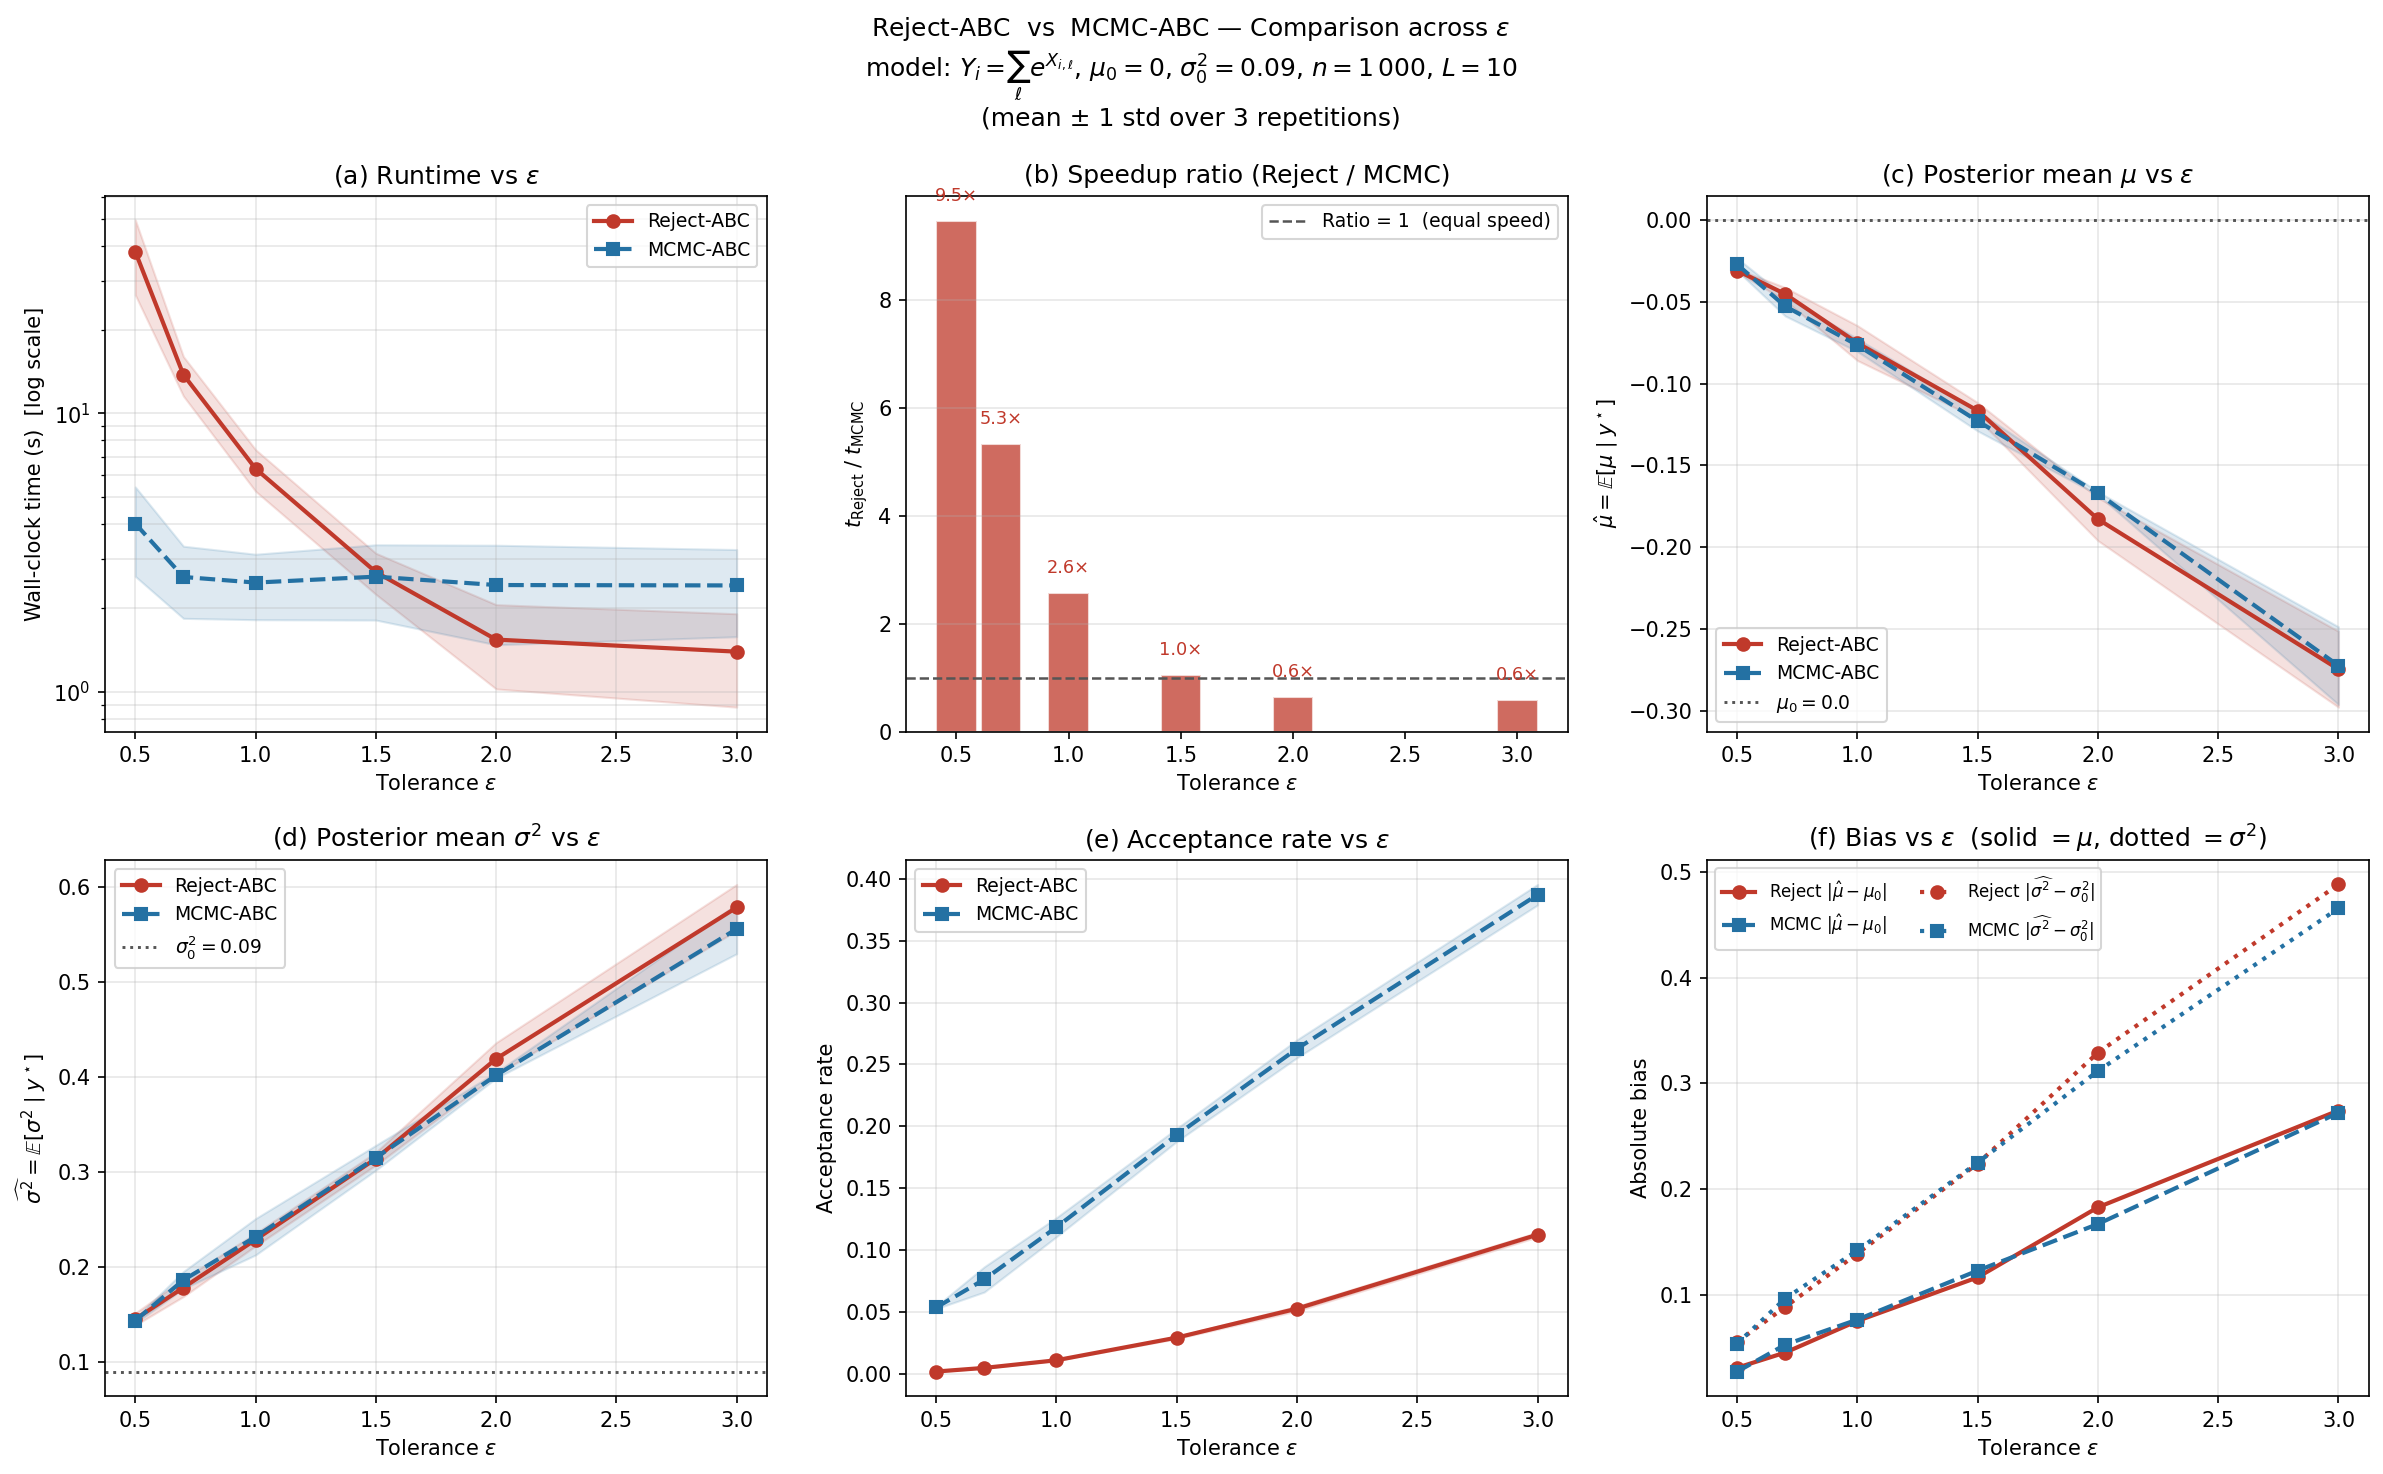
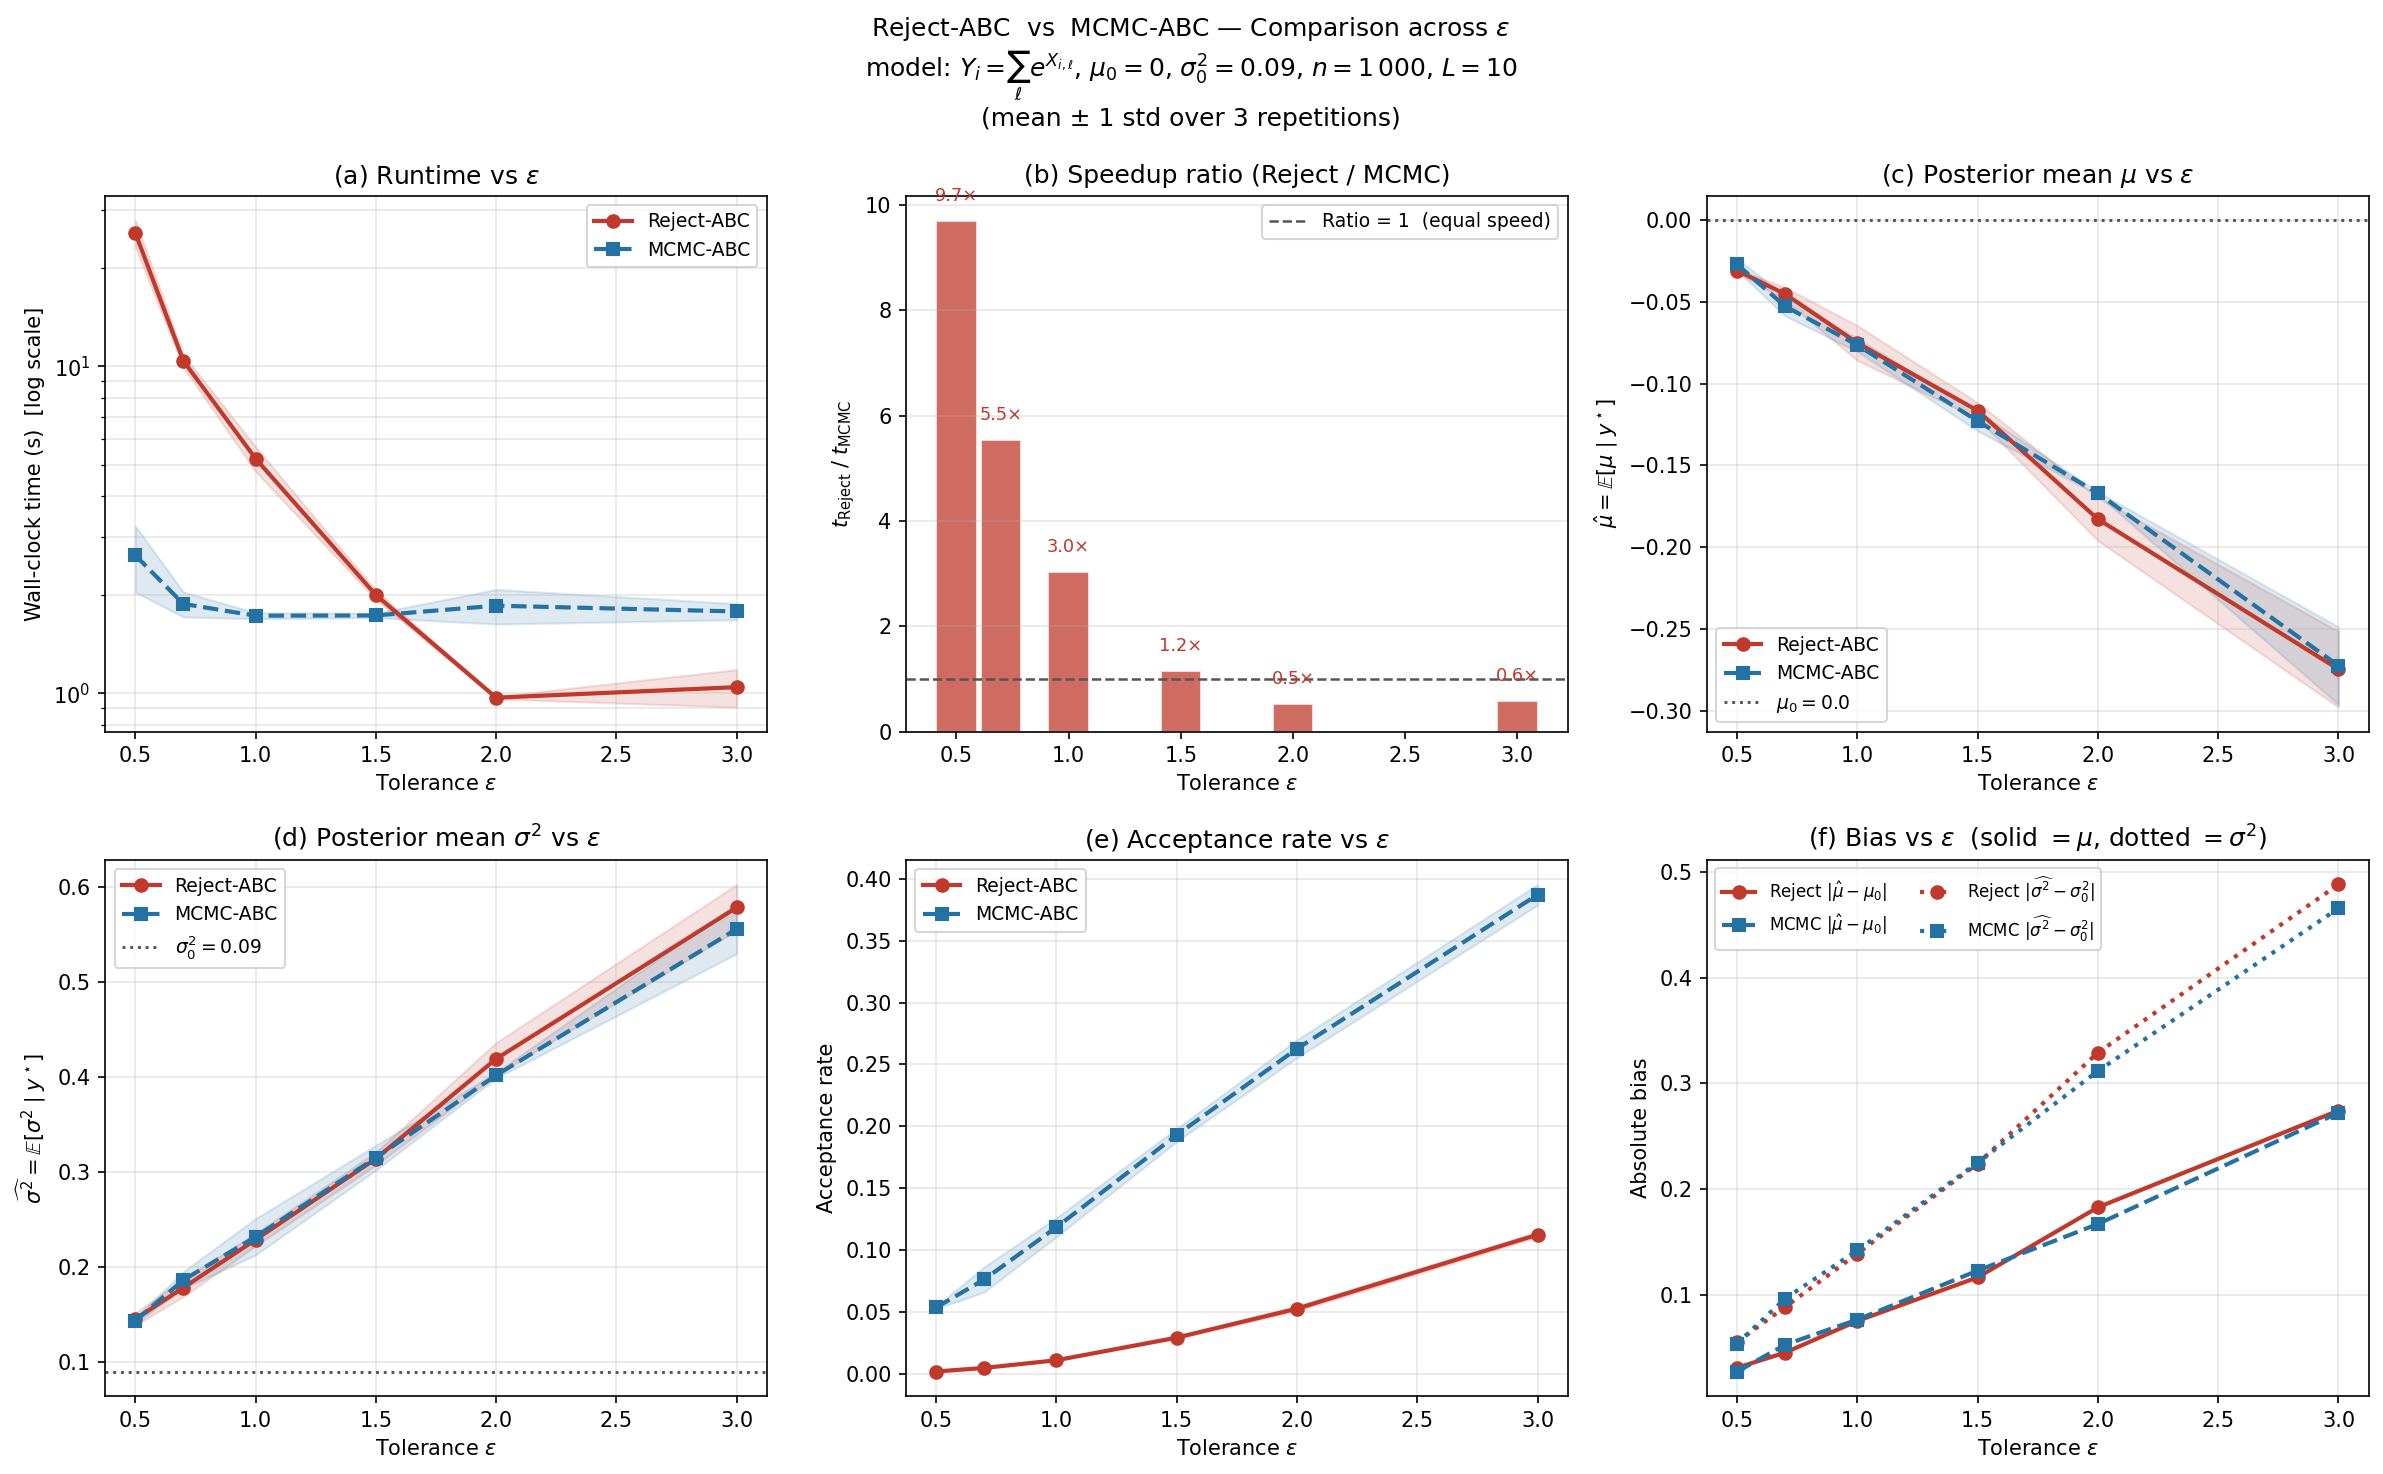
test

diff --git a/_make_diagram.py b/_make_diagram.py
@@ -1,0 +1,196 @@
+import matplotlib
+matplotlib.use("Agg")
+import matplotlib.pyplot as plt
+import matplotlib.patches as mpatches
+from matplotlib.patches import FancyBboxPatch
+import numpy as np
+
+fig = plt.figure(figsize=(18, 14))
+
+C_R  = "#C0392B"
+C_M  = "#2471A3"
+C_SH = "#BDC3C7"
+
+def box(ax, x, y, w, h, text, color, fontsize=9.5, text_color="white"):
+    bb = FancyBboxPatch((x - w/2, y - h/2), w, h,
+                        boxstyle="round,pad=0.12", linewidth=1.4,
+                        edgecolor="white", facecolor=color, zorder=3)
+    ax.add_patch(bb)
+    ax.text(x, y, text, ha="center", va="center",
+            fontsize=fontsize, color=text_color, zorder=4,
+            multialignment="center", fontweight="bold")
+
+def diamond(ax, x, y, w, h, text, color, fontsize=9):
+    pts = np.array([[x, y+h/2], [x+w/2, y], [x, y-h/2], [x-w/2, y]])
+    poly = plt.Polygon(pts, closed=True, facecolor=color,
+                       edgecolor="white", lw=1.4, zorder=3)
+    ax.add_patch(poly)
+    ax.text(x, y, text, ha="center", va="center",
+            fontsize=fontsize, color="white", zorder=4,
+            fontweight="bold", multialignment="center")
+
+def arrow(ax, x1, y1, x2, y2, color="#555", lw=1.6, ls="-"):
+    ax.annotate("", xy=(x2, y2), xytext=(x1, y1),
+                arrowprops=dict(arrowstyle="-|>", color=color,
+                                lw=lw, mutation_scale=14,
+                                linestyle=ls))
+
+# ─────────────────────────────────────────────────────────────────────────────
+# LEFT:  Reject-ABC
+# ─────────────────────────────────────────────────────────────────────────────
+ax1 = fig.add_axes([0.02, 0.04, 0.44, 0.88])
+ax1.set_xlim(0, 10); ax1.set_ylim(0, 22); ax1.axis("off")
+ax1.set_facecolor("#FAFBFC")
+ax1.set_title("Reject-ABC", fontsize=14, fontweight="bold", color=C_R, pad=8)
+
+bw, bh = 7.0, 1.1
+
+# y positions of each step
+Y = dict(start=20.5, draw=18.8, sim=17.1, w1=15.4, dec1=13.7,
+         keep=12.0, dec2=10.3, stats=8.6, out=6.9)
+
+box(ax1,    5, Y["start"], bw, bh, "START\nObserved data y*,  tolerance ε",
+    "#2C3E50", fontsize=9.5)
+box(ax1,    5, Y["draw"],  bw, bh,
+    "Draw batch of 4096 proposals\n(μ, log σ²)  ~  Prior  N(0,1)",
+    C_SH, text_color="#2C3E50")
+box(ax1,    5, Y["sim"],   bw, bh,
+    "Simulate Y_sim for each proposal\n(JAX vmap — 4096 in parallel)",
+    C_R)
+box(ax1,    5, Y["w1"],    bw, bh,
+    "Compute  W₁(y*, Y_sim)  for each\n(sort both, mean |gap|)",
+    C_R)
+diamond(ax1,5, Y["dec1"], 7.2, 1.3, "W₁  ≤  ε  ?", "#E67E22")
+box(ax1,    5, Y["keep"],  bw, bh,
+    "Keep accepted  (μ, σ²)\nadd to posterior sample list",
+    C_R)
+diamond(ax1,5, Y["dec2"], 7.2, 1.3,
+        "n_accepted ≥ 200\nor proposals ≥ 500 000 ?", "#E67E22")
+box(ax1,    5, Y["stats"], bw, bh,
+    "Compute posterior means  E[μ],  E[σ²]",
+    C_SH, text_color="#2C3E50")
+box(ax1,    5, Y["out"],   bw, bh,
+    "OUTPUT — 200 iid posterior samples", "#1E8449")
+
+# main downward arrows
+pairs = [("start","draw"),("draw","sim"),("sim","w1"),("w1","dec1"),
+         ("dec1","keep"),("keep","dec2"),("dec2","stats"),("stats","out")]
+diamonds_ = {"dec1","dec2"}
+for a_,b_ in pairs:
+    y1 = Y[a_] - (0.65 if a_ in diamonds_ else bh/2)
+    y2 = Y[b_] + (0.65 if b_ in diamonds_ else bh/2)
+    arrow(ax1, 5, y1, 5, y2)
+
+# "No" from dec1: loop right side back to draw
+ax1.plot([5+7.2/2, 8.6], [Y["dec1"], Y["dec1"]], color=C_R, lw=1.6)
+ax1.plot([8.6,     8.6],  [Y["dec1"], Y["draw"]],  color=C_R, lw=1.6)
+ax1.annotate("", xy=(5+bw/2, Y["draw"]), xytext=(8.6, Y["draw"]),
+             arrowprops=dict(arrowstyle="-|>", color=C_R, lw=1.6, mutation_scale=14))
+ax1.text(9.3, (Y["dec1"]+Y["draw"])/2, "No\n→ next\nbatch",
+         color=C_R, fontsize=8, ha="center", va="center")
+ax1.text(3.8, Y["dec1"]-0.9, "Yes ↓", color="#E67E22", fontsize=8.5, ha="center")
+
+# "No" from dec2: right side back to draw (dashed)
+ax1.plot([5+7.2/2, 9.2], [Y["dec2"], Y["dec2"]], color="#888", lw=1.4, ls="--")
+ax1.plot([9.2,      9.2], [Y["dec2"], Y["draw"]],  color="#888", lw=1.4, ls="--")
+ax1.annotate("", xy=(5+bw/2, Y["draw"]), xytext=(9.2, Y["draw"]),
+             arrowprops=dict(arrowstyle="-|>", color="#888", lw=1.4, mutation_scale=14))
+ax1.text(3.8, Y["dec2"]-0.9, "Yes ↓", color="#E67E22", fontsize=8.5, ha="center")
+
+ax1.text(5, 5.4,
+         "Cost  ∝  1/ε\n(tiny acceptance region → need many proposals)",
+         ha="center", fontsize=9, color=C_R,
+         bbox=dict(boxstyle="round,pad=0.4", fc="#FADBD8", ec=C_R, lw=1.2))
+
+# ─────────────────────────────────────────────────────────────────────────────
+# RIGHT: MCMC-ABC
+# ─────────────────────────────────────────────────────────────────────────────
+ax2 = fig.add_axes([0.54, 0.04, 0.44, 0.88])
+ax2.set_xlim(0, 10); ax2.set_ylim(0, 22); ax2.axis("off")
+ax2.set_facecolor("#FAFBFC")
+ax2.set_title("MCMC-ABC  (Marjoram et al. 2003)", fontsize=14,
+              fontweight="bold", color=C_M, pad=8)
+
+Y2 = dict(start=20.5, init=18.8, prop=17.1, sim=15.4, dec=13.7,
+          acc=12.0, rej=10.3, cnt=8.6, burn=7.0, stats=5.3, out=3.6)
+
+box(ax2, 5, Y2["start"], bw, bh, "START\nObserved data y*,  tolerance ε",
+    "#2C3E50", fontsize=9.5)
+box(ax2, 5, Y2["init"],  bw, bh,
+    "Find valid θ₀ from prior\nwith  W₁(y_sim(θ₀), y*) ≤ ε",
+    C_SH, text_color="#2C3E50")
+box(ax2, 5, Y2["prop"],  bw, bh,
+    "Propose  θ' = θ + δ·Z,   Z ~ N(0,I)\n(random walk on  (μ, log σ))",
+    C_M)
+box(ax2, 5, Y2["sim"],   bw, bh,
+    "Simulate Y_sim ~ model(θ')\nCompute  W₁(y*, Y_sim)",
+    C_M)
+diamond(ax2, 5, Y2["dec"], 7.2, 1.4,
+        "W₁ ≤ ε  AND\nlog U < log π(θ')/π(θ) ?", "#E67E22")
+box(ax2, 5, Y2["acc"],  bw, bh, "Accept:  θ ← θ'\nAppend θ to chain", C_M)
+box(ax2, 5, Y2["rej"],  bw, bh, "Reject:  keep θ\nAppend θ to chain",
+    C_SH, text_color="#2C3E50")
+diamond(ax2, 5, Y2["cnt"], 7.2, 1.3, "i < N_total = 5000 ?", "#E67E22")
+box(ax2, 5, Y2["burn"],  bw, bh,
+    "Discard first 2000 steps (burn-in)\nKeep last 3000",
+    C_M)
+box(ax2, 5, Y2["stats"], bw, bh,
+    "Compute posterior means  E[μ],  E[σ²]",
+    C_SH, text_color="#2C3E50")
+box(ax2, 5, Y2["out"],   bw, bh,
+    "OUTPUT — 3000 correlated posterior samples", "#1E8449")
+
+# straight downward arrows
+for a_, b_ in [("start","init"),("init","prop"),("prop","sim"),("sim","dec")]:
+    y1 = Y2[a_] - (0.65 if a_ in {"dec","cnt"} else bh/2)
+    y2 = Y2[b_] + (0.65 if b_ in {"dec","cnt"} else bh/2)
+    arrow(ax2, 5, y1, 5, y2)
+
+# from dec: "Yes" → acc
+arrow(ax2, 5, Y2["dec"]-0.7, 5, Y2["acc"]+bh/2, color=C_M)
+ax2.text(3.8, Y2["dec"]-1.0, "Yes ↓", color="#E67E22", fontsize=8.5, ha="center")
+
+# from dec: "No" → rej (side branch)
+ax2.plot([5+7.2/2, 8.5], [Y2["dec"], Y2["dec"]], color="#888", lw=1.6)
+ax2.plot([8.5, 8.5], [Y2["dec"], Y2["rej"]+bh/2], color="#888", lw=1.6)
+ax2.annotate("", xy=(5+bw/2, Y2["rej"]), xytext=(8.5, Y2["rej"]),
+             arrowprops=dict(arrowstyle="-|>", color="#888", lw=1.6, mutation_scale=14))
+ax2.text(9.3, (Y2["dec"]+Y2["rej"])/2, "No\n→ reject",
+         color="#888", fontsize=8, ha="center", va="center")
+
+# acc and rej both go to cnt
+arrow(ax2, 5, Y2["acc"]-bh/2, 5, Y2["cnt"]+0.65, color=C_M)
+arrow(ax2, 5, Y2["rej"]-bh/2, 5, Y2["cnt"]+0.65, color="#888")
+
+# cnt "Yes" loops back to prop
+ax2.plot([5+7.2/2, 9.0], [Y2["cnt"], Y2["cnt"]], color=C_M, lw=1.6)
+ax2.plot([9.0, 9.0], [Y2["cnt"], Y2["prop"]], color=C_M, lw=1.6)
+ax2.annotate("", xy=(5+bw/2, Y2["prop"]), xytext=(9.0, Y2["prop"]),
+             arrowprops=dict(arrowstyle="-|>", color=C_M, lw=1.6, mutation_scale=14))
+ax2.text(9.6, (Y2["cnt"]+Y2["prop"])/2, "Yes\n→ next\nstep",
+         color=C_M, fontsize=8, ha="center", va="center")
+
+# cnt "No" → burn
+arrow(ax2, 5, Y2["cnt"]-0.65, 5, Y2["burn"]+bh/2)
+ax2.text(3.8, Y2["cnt"]-1.0, "No ↓", color="#E67E22", fontsize=8.5, ha="center")
+
+# burn → stats → out
+arrow(ax2, 5, Y2["burn"]-bh/2, 5, Y2["stats"]+bh/2)
+arrow(ax2, 5, Y2["stats"]-bh/2, 5, Y2["out"]+bh/2)
+
+ax2.text(5, 2.2,
+         "Cost  ≈  constant in ε\n(chain walks inside the W₁ ≤ ε region)",
+         ha="center", fontsize=9, color=C_M,
+         bbox=dict(boxstyle="round,pad=0.4", fc="#D6EAF8", ec=C_M, lw=1.2))
+
+# ─────────────────────────────────────────────────────────────────────────────
+fig.text(0.5, 0.97, "Algorithmic Process Diagrams — ABC Methods",
+         ha="center", va="top", fontsize=16, fontweight="bold", color="#2C3E50")
+fig.text(0.5, 0.935,
+         r"Both target $\pi_\varepsilon(\theta\mid y^\star)\propto"
+         r"\mathbf{1}[W_1(y^\star,y_\mathrm{sim})\leq\varepsilon]\,\pi(\theta)$",
+         ha="center", va="top", fontsize=11, color="#555")
+
+plt.savefig("benchmark_results/process_diagrams.png", dpi=150,
+            bbox_inches="tight", facecolor="#F8F9FA")
+print("saved → benchmark_results/process_diagrams.png")